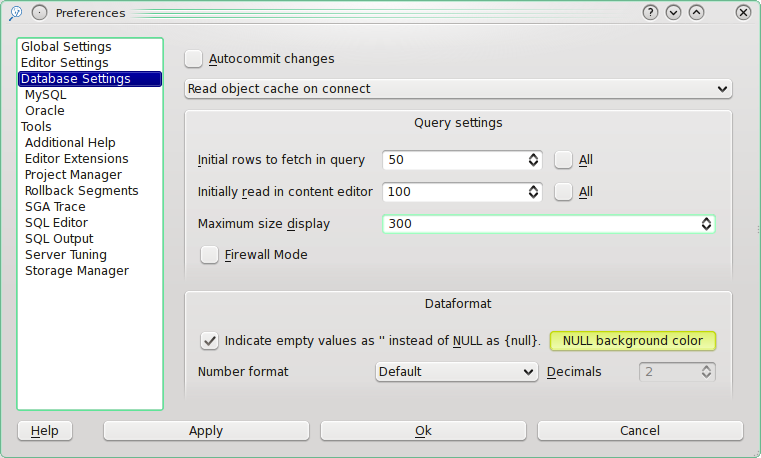
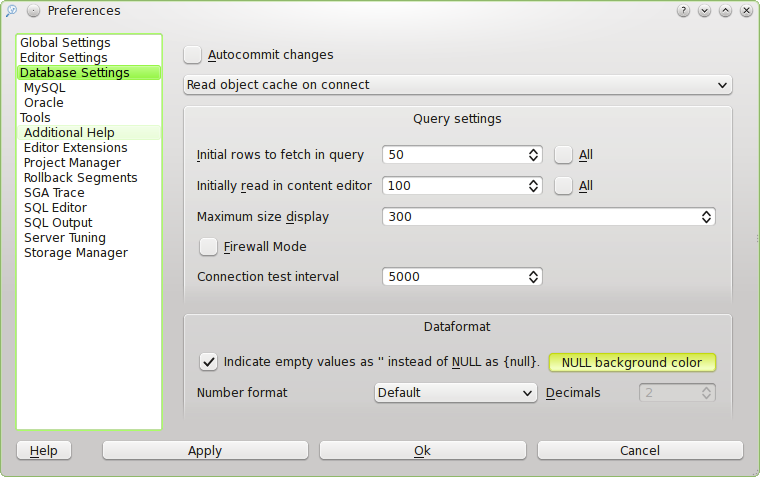
1. Fixed error when even with "Firewall mode" disabled TOra was sending simple queries to database on all sessions in pool. 2. Added an option to configure interval in which those queries are sent. 3. Updated corresponding documentation.
git-svn-id: https://svn.code.sf.net/p/tora/code/trunk@3463 4a83093e-0cc6-42a4-b7cd-3300864c03d0

Changed region(s): [[0.0, 0.0, 1.0, 1.0], [0.9382, 0.5502, 0.9684, 0.5808]]

diff --git a/tora/doc/help/database.html b/tora/doc/help/database.html
@@ -63,7 +63,10 @@ This page of the options contains settings on how to interact with the database.
 <br><dt><strong>Maximum size display</strong><dd>    The maximum width a list column will get automatically regardless of how large the content is. This is so
     you can still see the rest of the columns even if one of the first can contain very large values. You can
     always resize the column by hand afterwards. 
-<br><dt><strong>Firewall mode.</strong><dd>    TODO. 
+<br><dt><strong>Firewall mode.</strong><dd>    Makes each connection in connection pool to run extra queries (selecting sysdate from dual) at specified
+    interval (see "Connection test interval" option). This could be useful if there is a firewall between
+    TOra and database and firewall is dropping connections if there is no traffic. 
+<br><dt><strong>Connection test interval</strong><dd>    Interval in seconds at which TOra should be sending dummy queries to database (see "Firewall mode"). 
 <br><dt><strong>Indicate empty values as &rdquo;.</strong><dd>    TODO. 
 <br><dt><strong>Number format.</strong><dd>    TODO. 
 </dl>

diff --git a/tora/src/toconnectionpool.cpp b/tora/src/toconnectionpool.cpp
@@ -42,15 +42,12 @@
 #include "utils.h"
 
 #include "toconnectionpool.h"
+#include "toconfiguration.h"
 #include "tosql.h"
 
 #include <QTimer>
 #include <QCoreApplication>
 #include <QApplication>
-
-
-static const int TEST_MSEC = 5000;
-
 
 toConnectionPoolTest::toConnectionPoolTest(toConnectionPool *pool)
     : QThread(0), timer(0) {
@@ -58,10 +55,9 @@ toConnectionPoolTest::toConnectionPoolTest(toConnectionPool *pool)
     Pool = pool;
 }
 
-
 void toConnectionPoolTest::run() {
     timer = new QTimer();
-    timer->setInterval(TEST_MSEC);
+    timer->setInterval(toConfigurationSingle::Instance().connTestInterval());
     connect(timer, SIGNAL(timeout()), this, SLOT(test()), Qt::DirectConnection);
     timer->start();
 
@@ -69,7 +65,6 @@ void toConnectionPoolTest::run() {
 
     delete timer;
 }
-
 
 void toConnectionPoolTest::test() {
     for(int i = 0; Pool && i < Pool->size(); i++) {
@@ -81,7 +76,6 @@ void toConnectionPoolTest::test() {
             Pool->fix(i);
     }
 }
-
 
 toConnectionPoolExec::toConnectionPoolExec(toConnectionPool *pool, Action act) {
     action = act;
@@ -151,23 +145,32 @@ toConnectionPool::toConnectionPool(toConnection *conn) : QObject(conn) {
         ptr->append(psub);
     }
 
-    TestThread = new toConnectionPoolTest(this);
-    TestThread->start();
+    if(toConfigurationSingle::Instance().firewallMode())
+    {
+        TestThread = new toConnectionPoolTest(this);
+        TestThread->start();
+        TestThreadRunning = true;
+    }
+    else
+        TestThreadRunning = false;
 }
 
 
 toConnectionPool::~toConnectionPool() {
-    QMetaObject::invokeMethod(TestThread, "quit", Qt::QueuedConnection);
+    if (TestThreadRunning)
+    {
+        QMetaObject::invokeMethod(TestThread, "quit", Qt::QueuedConnection);
 #ifdef Q_WS_MAC
 	// This is propably mandatory on Mac. If it's missing, the TestThread->wait()
 	// will block entire GUI for ever.
 	TestThread->quit();
 #endif
-    // must call this or the queued call never executes while we wait
-    // on the thread. Awesome.
-    qApp->processEvents();
-    TestThread->wait();
-    delete TestThread;
+        // must call this or the queued call never executes while we wait
+        // on the thread. Awesome.
+        qApp->processEvents();
+        TestThread->wait();
+        delete TestThread;
+    }
 
     toConnection *conn = Connection;
     Connection = 0;

diff --git a/tora/src/toconfiguration.cpp b/tora/src/toconfiguration.cpp
@@ -108,6 +108,7 @@ public:
     int     m_objectCache;
     bool    m_bkgndConnect;
     bool    m_firewallMode;
+    int     m_connTestInterval;
     int     m_maxContent;
     bool    m_keepPlans;
     bool    m_vsqlPlans;
@@ -349,6 +350,7 @@ public:
         m_objectCache = s.value(CONF_OBJECT_CACHE, DEFAULT_OBJECT_CACHE).toInt();
         m_bkgndConnect = s.value(CONF_BKGND_CONNECT, false).toBool();
         m_firewallMode = s.value(CONF_FIREWALL_MODE, false).toBool();
+        m_connTestInterval = s.value(CONF_CONN_TEST_INTERVAL, DEFAULT_CONN_TEST_INTERVAL).toInt();
         m_maxContent = s.value(CONF_MAX_CONTENT, DEFAULT_MAX_CONTENT).toInt();
         m_keepPlans = s.value(CONF_KEEP_PLANS, false).toBool();
         m_vsqlPlans = s.value(CONF_VSQL_PLANS, true).toBool();
@@ -575,6 +577,7 @@ public:
         s.setValue(CONF_OBJECT_CACHE, m_objectCache);
         s.setValue(CONF_BKGND_CONNECT, m_bkgndConnect);
         s.setValue(CONF_FIREWALL_MODE, m_firewallMode);
+        s.setValue(CONF_CONN_TEST_INTERVAL, m_connTestInterval);
         s.setValue(CONF_MAX_CONTENT, m_maxContent);
         s.setValue(CONF_KEEP_PLANS, m_keepPlans);
         s.setValue(CONF_VSQL_PLANS, m_vsqlPlans);
@@ -1381,6 +1384,15 @@ bool toConfiguration::firewallMode()
 void toConfiguration::setFirewallMode(bool v)
 {
     p->m_firewallMode = v;
+}
+
+int toConfiguration::connTestInterval()
+{
+    return p->m_connTestInterval;
+}
+void toConfiguration::setConnTestInterval(int v)
+{
+    p->m_connTestInterval = v;
 }
 
 int toConfiguration::maxContent()

diff --git a/tora/src/toglobalsetting.cpp b/tora/src/toglobalsetting.cpp
@@ -354,6 +354,7 @@ toDatabaseSetting::toDatabaseSetting(QWidget *parent, const char *name, Qt::WFla
 //     BkgndConnect->setChecked(toConfigurationSingle::Instance().bkgndConnect());
     IndicateEmpty->setChecked(toConfigurationSingle::Instance().indicateEmpty());
     FirewallMode->setChecked(toConfigurationSingle::Instance().firewallMode());
+    ConnTestInterval->setValue(toConfigurationSingle::Instance().connTestInterval());
 
     QColor nullColor;
     nullColor.setNamedColor(toConfigurationSingle::Instance().indicateEmptyColor());
@@ -405,6 +406,7 @@ void toDatabaseSetting::saveSetting(void)
     toConfigurationSingle::Instance().setIndicateEmptyColor(IndicateEmptyColor->palette().color(IndicateEmptyColor->backgroundRole()).name());
 //     toConfigurationSingle::Instance().setKeepAlive(KeepAlive->isChecked() ? DEFAULT_KEEP_ALIVE : -1); //FIXME: there was ""
     toConfigurationSingle::Instance().setFirewallMode(FirewallMode->isChecked());
+    toConfigurationSingle::Instance().setConnTestInterval(ConnTestInterval->value());
 
     toConfigurationSingle::Instance().setNumberFormat(NumberFormat->currentIndex());
     toConfigurationSingle::Instance().setNumberDecimals(Decimals->value());

diff --git a/tora/src/toconf.h b/tora/src/toconf.h
@@ -114,6 +114,8 @@
 #define DEFAULT_OBJECT_CACHE 1
 #define CONF_BKGND_CONNECT "BackgroundConnect"
 #define CONF_FIREWALL_MODE "FirewallMode"
+#define CONF_CONN_TEST_INTERVAL "Connection test interval"
+#define DEFAULT_CONN_TEST_INTERVAL 5000
 #define CONF_MAX_CONTENT "MaxContent"
 #define DEFAULT_MAX_CONTENT 100
 #define CONF_KEEP_PLANS  "KeepPlans" // default: false

diff --git a/tora/src/toconnectionpool.h b/tora/src/toconnectionpool.h
@@ -129,6 +129,7 @@ class toConnectionPool : public QObject {
     friend class toConnectionPoolExec;
 
     toConnectionPoolTest *TestThread;
+    bool TestThreadRunning; // indicates if constructor has created a thread for periodic queries
 
     // for future configuration
     static const int PreferredSize = 3;

diff --git a/tora/src/toconfiguration.h b/tora/src/toconfiguration.h
@@ -195,6 +195,9 @@ public:
     bool firewallMode();
     void setFirewallMode(bool v);
 
+    int connTestInterval();
+    void setConnTestInterval(int v);
+
     int maxContent();
     void setMaxContent(int v);
 
